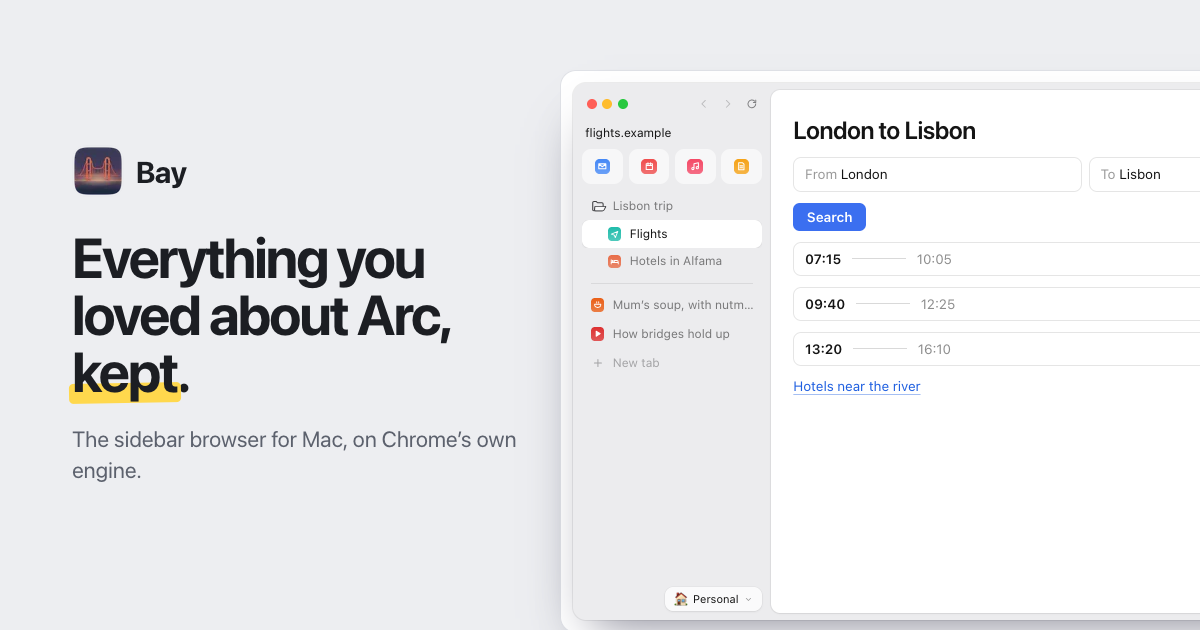
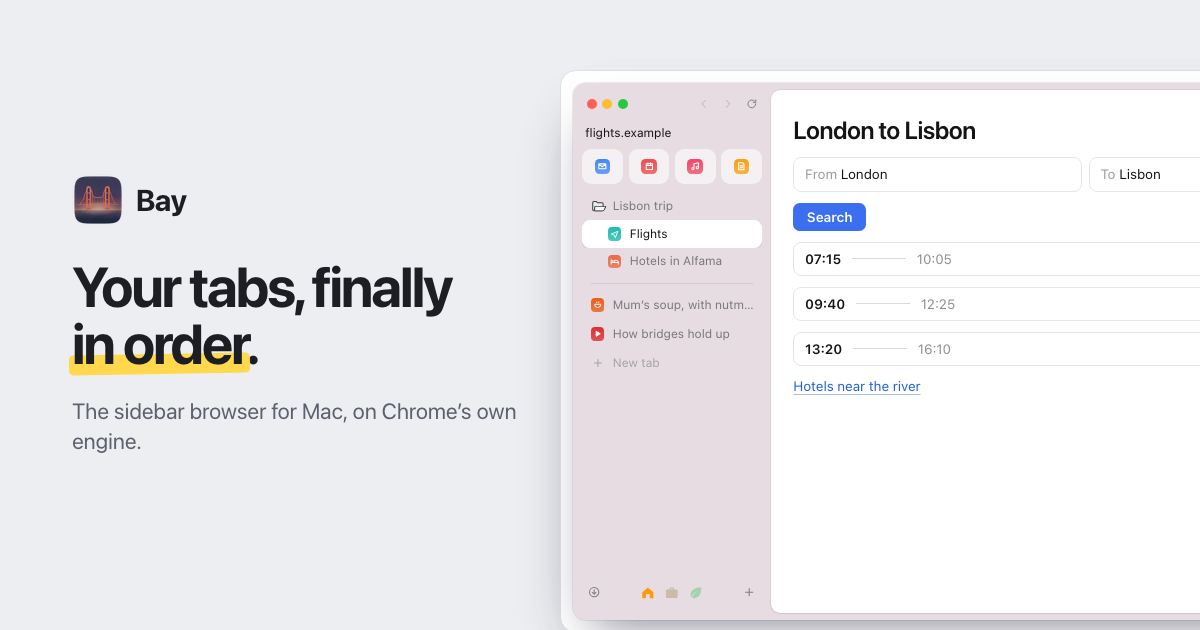
docs(web): lead the site with bay instead of arc

Changed region(s): [[0.0308, 0.2111, 0.4317, 0.7841], [0.5242, 0.9048, 0.6475, 0.9952]]

diff --git a/apps/web/src/site.ts b/apps/web/src/site.ts
@@ -7,7 +7,7 @@ export const site = {
   title: "Bay: a beautiful, fast browser for Mac",
   // Around 155 characters, the answer first.
   description:
-    "Bay is a beautiful, fast browser for Mac with everything you loved about Arc: the sidebar, spaces, pinned tabs, folders, Peek and Split View, on Chrome’s engine.",
+    "Bay is a beautiful, fast browser for Mac: spaces, a sidebar of pinned tabs and folders, Peek, Split View and ads blocked out of the box, on Chrome’s engine.",
   // public/_redirects sends it to the latest GitHub release's Bay.dmg.
   downloadUrl: "/download",
   // The source, releases and issues.
@@ -24,7 +24,7 @@ export const downloadLink = { "data-astro-reload": true, "data-astro-prefetch": 
 const id = (name: string) => `${site.url}/#${name}`;
 export const ids = { org: id("organization"), site: id("website"), app: id("app") };
 
-/** What Bay keeps from Arc, by the name Arc gave it. The home page and the switching guide both list it. */
+/** Where each Arc feature is in Bay, by Arc's name for it. The switching guide lists it. */
 export const fromArc = [
   ["The sidebar", "The sidebar", "Tabs down the side: favorites on top, pinned tabs under them, today’s below."],
   ["Spaces", "Spaces", "Each with its own icon, theme and profile, so sign-ins stay apart. Swipe between them."],
@@ -40,12 +40,8 @@ export const fromArc = [
 
 export const faqs = [
   {
-    q: "Does Bay have Arc’s features?",
-    a: "Yes. Bay is its own browser, and it brings what people loved about Arc: the sidebar, spaces, pinned tabs, folders, Peek, Split View and a little window for links from other apps. It imports your Arc spaces, pinned tabs and favorites, so you can pick up where you left off.",
-  },
-  {
-    q: "Is Bay made by The Browser Company?",
-    a: "No. Bay is an independent browser and isn’t affiliated with The Browser Company or Arc.",
+    q: "What is Bay?",
+    a: "A browser for the Mac built around a sidebar: spaces for each part of your life, pinned tabs and folders that stay put, Peek, Split View, and ads and trackers blocked from the first page. It runs on Chrome’s engine, so every site and extension works.",
   },
   {
     q: "Is Bay built on Chromium?",
@@ -56,8 +52,8 @@ export const faqs = [
     a: "They do. Install them from the Chrome Web Store; their buttons sit in the toolbar and side panels open beside the page.",
   },
   {
-    q: "Can I bring my tabs over from Arc?",
-    a: "Bay imports Arc’s spaces, tabs, pinned tabs, folders and favorites, plus bookmarks, history and passwords. It also imports from Chrome, Safari, Firefox and Dia.",
+    q: "Can I bring my bookmarks and passwords?",
+    a: "Yes. Bay imports bookmarks, history and passwords from Chrome, Safari, Firefox, Arc and Dia. From Arc, your spaces, pinned tabs, folders and favorites come over too.",
   },
   {
     q: "What happens to tabs I haven’t looked at in a while?",
@@ -70,6 +66,10 @@ export const faqs = [
   {
     q: "Does Bay sync between my Macs?",
     a: "Yes, with encryption you hold the key to: your data is sealed into files in a folder you choose, like one in iCloud Drive, and only your devices can read it.",
+  },
+  {
+    q: "Is Bay made by The Browser Company?",
+    a: "No. Bay is an independent browser and isn’t affiliated with The Browser Company or Arc.",
   },
 ] as const;
 

diff --git a/apps/web/src/styles/global.css b/apps/web/src/styles/global.css
@@ -171,7 +171,7 @@
     box-shadow: 0 12px 28px -18px rgba(30, 32, 60, 0.25);
   }
 
-  /* The rest of what's kept from Arc: chips that come in one after another. */
+  /* The rest of what's inside: chips that come in one after another. */
   .chip {
     @apply inline-flex items-center gap-2 rounded-full bg-white py-2 pr-4 pl-3 text-[14.5px] text-ink-soft shadow-[0_0_0_1px_var(--color-line),0_1px_2px_rgba(30,32,60,0.04)] transition-[transform,box-shadow] duration-200 hover:-translate-y-px hover:shadow-[0_0_0_1px_#d3d6dc,0_8px_18px_-10px_rgba(30,32,60,0.35)];
   }
